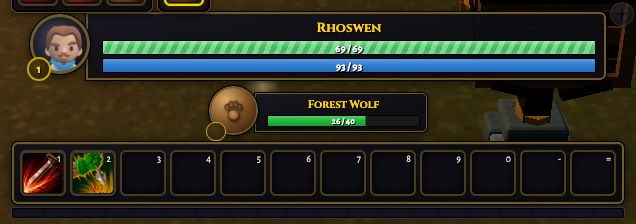
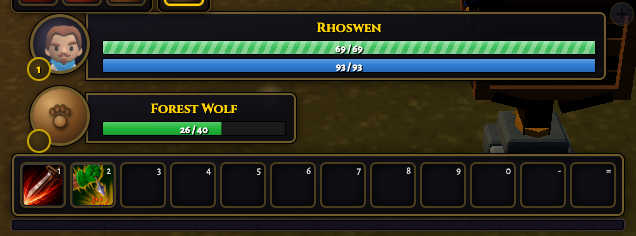
fix(ui): align the pet frame to the player frame and carry it on drag
Two problems with the pet frame's placement, both found by looking at the
rendered HUD rather than the code.

It centred its short content row in the player frame's 612px box while
the player frame centres a full-width row, so the two portraits sat
about 200px apart and the pair read as unrelated things floating over
the action bar. Both frames now share one content inset and one scale,
which puts the portraits in a single column; the subordinate read comes
from the shorter bar, not from shrinking the frame. The inset is a token
so the two cannot drift, and its value was measured against the rendered
frames (portraits land on the same x, desktop and mobile).

Dragging the player frame also stranded the strip. The drag reparents
the frame out of the action-bar stack into #ui, and the pet frame stayed
behind at the bottom of the screen; it now travels with the frame and
returns to the stack when re-docked, verified across the round trip.

diff --git a/src/styles/hud.css b/src/styles/hud.css
@@ -594,6 +594,14 @@
     min-width: 0;
     max-width: 520px;
   }
+  /* How far the player frame's centred content row sits from the left edge of its
+     612px box: (612 - (portrait + the 520px bar column)) / 2. The pet frame hangs
+     beneath with a shorter row, so it cannot reach the same column by centring and
+     pays this inset explicitly instead. Held as one token so the two cannot drift
+     apart; measured against the rendered frames, not derived on paper. */
+  #actionbar-stack {
+    --unit-frame-content-inset: 18px;
+  }
   /* The player frame once MOVED (MovableFrame sets pf-detached alongside the
      saved left/top): hud.ts reparents it from the action-bar stack to #ui (a
      transformed #bottom-bar ancestor would hijack the positioning), where it
@@ -618,19 +626,32 @@
      (#bottom-bar sits at bottom: 6px), so this grows the stack UPWARD: the action
      bars keep their position and the player frame lifts by this strip's height.
      Hidden until the player actually has a pet; the family painter sets the inline
-     display:flex, which outranks the `none` here. It follows --player-frame-scale
-     because it belongs to the player frame, and rides slightly smaller so it reads
-     as subordinate to it (the same trick #totarget-frame uses under the target). */
+     display:flex, which outranks the `none` here.
+
+     It shares the player frame's 612px box and its scale, and LEFT-ALIGNS its
+     content to --unit-frame-content-inset so the pet portrait sits in the same
+     column as the player portrait directly above it. Both halves of that matter:
+     the player frame CENTRES a full-width content row in the box, and this frame's
+     row is much shorter (one short bar, no resource rail), so centring would push
+     its portrait about 200px right of the player's and the pair reads as two
+     unrelated things floating over the action bar. It also takes NO extra zoom of
+     its own for the same reason: any scale the two frames do not share moves this
+     one's content off that column. The subordinate read comes from the shorter bar
+     and the single row, not from shrinking the frame. */
   #pet-frame {
     position: relative;
     top: auto;
     left: auto;
+    width: 612px;
     margin: 0 auto 4px;
     display: none;
     align-items: center;
-    justify-content: center;
+    justify-content: flex-start;
+    padding-left: var(--unit-frame-content-inset);
     cursor: pointer;
-    zoom: calc(0.82 * var(--player-frame-scale, 1));
+  }
+  #pet-frame > * {
+    zoom: var(--player-frame-scale, 1);
   }
   #pet-frame .uf-bars {
     flex: none;
@@ -647,6 +668,24 @@
      dims rather than hiding, matching the party frames' dead treatment. */
   #pet-frame.dead {
     opacity: 0.7;
+  }
+  /* Once the player frame is DRAGGED it leaves #actionbar-stack for #ui, so hud.ts
+     moves the pet frame inside it (anchorPetFrameToPlayer) and it hangs off the
+     frame here instead of sitting in the stack's flow. Without this the strip
+     stayed behind at the bottom of the screen while the frame it belongs to moved
+     away. The children-zoom is dropped because #player-frame already applies the
+     same scale to its own children, which now include this frame. */
+  #player-frame.pf-detached > #pet-frame {
+    position: absolute;
+    top: calc(100% + 4px);
+    left: 0;
+    width: auto;
+    margin: 0;
+    padding-left: 0;
+    z-index: 6;
+  }
+  #player-frame.pf-detached > #pet-frame > * {
+    zoom: 1;
   }
   #target-frame {
     left: 12px;

diff --git a/tests/client_shell.test.ts b/tests/client_shell.test.ts
@@ -2548,3 +2548,49 @@ describe('client HTML shell', () => {
     expect(hudMobileCss).toMatch(/body\.mobile-touch #bags \{[\s\S]*?z-index:\s*95 !important;/);
   });
 });
+
+// The pet frame belongs to the player frame and must travel with it. Dragging the
+// player frame reparents it out of #actionbar-stack into #ui (pf-detached), and
+// before this was wired the pet strip stayed behind in the stack, stranded at the
+// bottom of the screen while the frame it hangs off sat wherever it was dropped.
+// Both halves are pinned because either alone silently restores the bug: the
+// hud.ts call that moves the node, and the CSS that anchors it once moved.
+describe('pet frame follows the player frame when it is dragged', () => {
+  const hudSrc = readFileSync(new URL('../src/ui/hud.ts', import.meta.url), 'utf8');
+  const hudCssSrc = readFileSync(new URL('../src/styles/hud.css', import.meta.url), 'utf8');
+
+  it('setPlayerFrameDetached hands off to the pet-frame anchor', () => {
+    const body = hudSrc.slice(
+      hudSrc.indexOf('private setPlayerFrameDetached'),
+      hudSrc.indexOf('private anchorPetFrameToPlayer'),
+    );
+    expect(body).toContain('this.anchorPetFrameToPlayer(active)');
+  });
+
+  it('the anchor reparents into the player frame when detached and back when docked', () => {
+    const body = hudSrc.slice(
+      hudSrc.indexOf('private anchorPetFrameToPlayer'),
+      hudSrc.indexOf('setAurasOnPlayerFrame'),
+    );
+    expect(body).toContain('frame.appendChild(pet)');
+    expect(body).toContain("$('#actionbar-stack')");
+    expect(body).toContain('stack.insertBefore(pet, frame.nextSibling)');
+  });
+
+  it('CSS anchors the strip under the detached frame instead of leaving it in flow', () => {
+    expect(hudCssSrc).toContain('#player-frame.pf-detached > #pet-frame {');
+    expect(hudCssSrc).toMatch(/#player-frame\.pf-detached > #pet-frame \{[^}]*position: absolute/);
+  });
+
+  // Docked, the two frames share one 612px box and this inset is what puts the pet
+  // portrait in the same column as the player portrait. Measured against the
+  // rendered frames (both portraits land on the same x); a drifted value is exactly
+  // the "floating, unattached" look the inset exists to prevent.
+  it('shares one content inset between the player and pet frames', () => {
+    expect(hudCssSrc).toContain('--unit-frame-content-inset: 18px;');
+    expect(hudCssSrc).toMatch(/#pet-frame \{[^}]*padding-left: var\(--unit-frame-content-inset\)/);
+    // No extra zoom of its own: any scale the two frames do not share moves the
+    // pet portrait off that column.
+    expect(hudCssSrc).toMatch(/#pet-frame > \* \{\s*zoom: var\(--player-frame-scale, 1\);\s*\}/);
+  });
+});

diff --git a/src/ui/hud.ts b/src/ui/hud.ts
@@ -3373,6 +3373,30 @@ export class Hud {
       const stack = $('#actionbar-stack');
       if (frame.parentElement !== stack) stack.insertBefore(frame, stack.firstChild);
     }
+    this.anchorPetFrameToPlayer(active);
+  }
+
+  // The pet frame belongs to the player frame, so it has to travel with it.
+  // DOCKED it stays an in-flow sibling right after the player frame, so the
+  // bottom-anchored stack reserves its height and it never overlays the action
+  // bars. Once the player frame is DRAGGED it moves to #ui, and a sibling left in
+  // the stack would be stranded at the bottom of the screen while the frame it
+  // belongs to sits wherever the player dropped it, so the pet frame moves inside
+  // the frame and CSS hangs it underneath. Same reparent-and-restore shape the
+  // buff row uses for the Buffs on the Player Frame option below.
+  private anchorPetFrameToPlayer(detached: boolean): void {
+    const pet = this.petFrameEl;
+    if (!pet) return;
+    const frame = this.playerFrameEl;
+    if (detached) {
+      if (pet.parentElement !== frame) frame.appendChild(pet);
+      return;
+    }
+    const stack = $('#actionbar-stack');
+    // insertBefore with the frame's next sibling puts the strip back directly
+    // after the player frame, which is where the docked layout expects it; the
+    // frame itself has already been restored to the stack's head above.
+    if (pet.parentElement !== stack) stack.insertBefore(pet, frame.nextSibling);
   }
 
   // Buffs on the Player Frame (aurasOnPlayerFrame): reparent the player's own

diff --git a/src/styles/hud.mobile.css b/src/styles/hud.mobile.css
@@ -1830,6 +1830,11 @@
     width: 300px;
     margin: 0;
     justify-content: flex-start;
+    /* The desktop rule pays --unit-frame-content-inset because the desktop player
+       frame CENTRES its content in a 612px box. The mobile player frame is
+       flex-start with no inset, so inheriting it here pushes this strip about 18px
+       right of the frame it hangs under. Reset, do not inherit. */
+    padding-left: 0;
     zoom: 1;
     transform: translateX(-50%) scale(calc(0.82 * var(--mobile-chrome-scale, 1)));
     transform-origin: center bottom;
